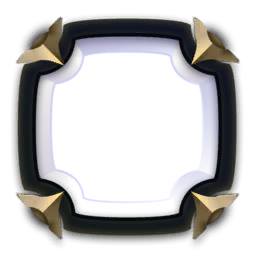
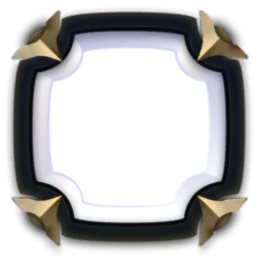
added crop logic to the demo

diff --git a/dev/app/assets/keyword/poc-test.html b/dev/app/assets/keyword/poc-test.html
@@ -18,11 +18,31 @@
             .poc-frame-common {
                 filter: hue-rotate(105deg);
             }
+            .crop {
+                clip-path: polygon(
+                    calc(25 / 256 * 100%) calc(69 / 256 * 100%), 
+                    calc(55 / 256 * 100%) calc(55 / 256 * 100%), 
+                    calc(69 / 256 * 100%) calc(25 / 256 * 100%), 
+
+                    calc(187 / 256 * 100%) calc(25 / 256 * 100%), 
+                    calc(201 / 256 * 100%) calc(55 / 256 * 100%), 
+                    calc(231 / 256 * 100%) calc(69 / 256 * 100%), 
+                    
+                    calc(231 / 256 * 100%) calc(187 / 256 * 100%), 
+                    calc(201 / 256 * 100%) calc(201 / 256 * 100%),
+                    calc(187 / 256 * 100%) calc(231 / 256 * 100%),  
+
+                    calc(69 / 256 * 100%) calc(231 / 256 * 100%),
+                    calc(55 / 256 * 100%) calc(201 / 256 * 100%), 
+                    calc(25 / 256 * 100%) calc(187 / 256 * 100%)
+                );
+            }
         </style>
     </head>
     <body>
 
-        <img src="./poc-frame-overlay.png" class="poc-frame poc-rarity-color"/>
+        <img src="./frame.png" class="poc-frame crop"/>
+        <img src="./poc-frame-overlay.png" class="poc-frame"/>
         <img src="./poc-frame-overlay-cover.png" class="poc-frame"/>
         <img src="./poc-frame-overlay-legendary.png" class="poc-frame"/>
     </body>
